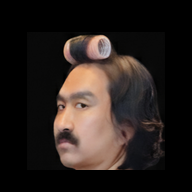
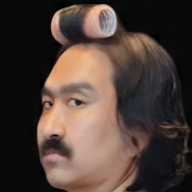
Add files via upload

diff --git a/index.html b/index.html
@@ -46,19 +46,21 @@
   .card-head-right { display: flex; align-items: center; gap: 6px; flex-shrink: 0; }
   .pct-badge { font-size: 12px; font-weight: 600; font-family: 'Space Grotesk', sans-serif; min-width: 30px; text-align: right; }
   .icon-btn { background: transparent; border: none; color: #8b8f98; padding: 4px; display: flex; align-items: center; }
-  .weight-row { display: flex; align-items: center; gap: 8px; margin-bottom: 10px; }
-  .weight-label { font-size: 11px; color: #8b8f98; flex-shrink: 0; }
-  .weight-input { background: #14161a; border: 1px solid #2a2e37; border-radius: 7px; color: #f2542d; font-family: 'Space Grotesk', sans-serif; font-weight: 700; font-size: 13px; padding: 5px 10px; flex: 1; min-width: 0; }
-  .sets-header-row { display: flex; padding: 0 2px 4px; gap: 8px; }
-  .set-col-label { font-size: 10px; color: #5c616c; letter-spacing: 0.5px; }
-  .set-row { display: flex; align-items: center; gap: 8px; margin-bottom: 6px; }
-  .set-num { flex: 0 0 32px; font-size: 12px; color: #8b8f98; font-family: 'Space Grotesk', sans-serif; }
-  .set-tap-btn { flex: 1; position: relative; height: 36px; border-radius: 8px; border: 1px solid #3a3f4a; overflow: hidden; display: flex; align-items: center; justify-content: center; }
-  .set-fill { position: absolute; left: 0; top: 0; bottom: 0; transition: width 0.2s ease; }
-  .set-label { position: relative; font-size: 12.5px; font-weight: 500; color: #f5f5f0; }
-  .target-input { flex: 0 0 56px; background: #14161a; border: 1px solid #2a2e37; border-radius: 8px; color: #f5f5f0; font-size: 13px; text-align: center; padding: 8px 4px; }
-  .set-btn-row { display: flex; gap: 8px; margin-top: 4px; }
-  .small-btn { display: flex; align-items: center; gap: 4px; background: transparent; border: 1px dashed #3a3f4a; color: #8b8f98; font-size: 11.5px; padding: 5px 9px; border-radius: 7px; }
+  .info-row { display: flex; align-items: center; gap: 8px; margin-bottom: 10px; }
+  .info-field { flex: 1; min-width: 0; }
+  .info-label { font-size: 10px; color: #5c616c; letter-spacing: 0.5px; display: block; margin-bottom: 3px; }
+  .weight-input { width: 100%; background: #14161a; border: 1px solid #2a2e37; border-radius: 7px; color: #f2542d; font-family: 'Space Grotesk', sans-serif; font-weight: 700; font-size: 13px; padding: 6px 10px; }
+  .reps-input { width: 100%; background: #14161a; border: 1px solid #2a2e37; border-radius: 7px; color: #f5f5f0; font-family: 'Space Grotesk', sans-serif; font-weight: 700; font-size: 13px; padding: 6px 10px; text-align: center; }
+  .tap-row { display: flex; align-items: center; gap: 14px; }
+  .tap-btn-small { flex: 0 0 56px; width: 56px; height: 56px; border-radius: 14px; border: 1px solid #3a3f4a; background: rgba(242,84,45,0.10); display: flex; align-items: center; justify-content: center; }
+  .set-gauge-col { flex: 1; display: flex; flex-direction: column; align-items: center; gap: 5px; }
+  .set-gauge { width: 60px; height: 60px; border-radius: 50%; display: flex; align-items: center; justify-content: center; transition: background 0.2s ease; }
+  .set-gauge-inner { width: 48px; height: 48px; border-radius: 50%; background: #1e2128; display: flex; flex-direction: column; align-items: center; justify-content: center; }
+  .set-gauge-pct { font-family: 'Space Grotesk', sans-serif; font-size: 14px; font-weight: 700; line-height: 1; }
+  .set-gauge-count { font-size: 9px; color: #8b8f98; margin-top: 1px; }
+  .target-edit-row { display: flex; align-items: center; gap: 4px; }
+  .target-edit-row span { font-size: 9px; color: #5c616c; }
+  .target-sets-input { width: 34px; background: transparent; border: none; border-bottom: 1px dashed #3a3f4a; color: #a8adb8; font-size: 11px; font-weight: 700; font-family: 'Space Grotesk', sans-serif; text-align: center; padding: 1px; }
   .add-exercise-btn { width: 100%; margin-top: 16px; display: flex; align-items: center; justify-content: center; gap: 6px; background: #f2542d; color: #14161a; border: none; border-radius: 10px; padding: 12px; font-weight: 700; font-size: 14px; font-family: 'Space Grotesk', sans-serif; }
   .add-card { margin-top: 16px; display: flex; gap: 8px; align-items: center; }
   .add-input { flex: 1; background: #1e2128; border: 1px solid #2a2e37; border-radius: 9px; color: #f5f5f0; padding: 10px 12px; font-size: 13px; min-width: 0; }
@@ -73,13 +75,14 @@
 <script>
 const SVG = {
   dumbbell: `<svg xmlns="http://www.w3.org/2000/svg" width="16" height="16" viewBox="0 0 24 24" fill="none" stroke="#f2542d" stroke-width="2" stroke-linecap="round" stroke-linejoin="round"><path d="M14.4 14.4 9.6 9.6"/><path d="M18.657 21.485a2 2 0 1 1-2.829-2.828l-1.767 1.768a2 2 0 1 1-2.829-2.829l6.364-6.364a2 2 0 1 1 2.829 2.829l-1.768 1.767a2 2 0 1 1 2.828 2.829z"/><path d="m21.5 21.5-1.4-1.4"/><path d="M3.9 3.9 2.5 2.5"/><path d="M6.404 12.768a2 2 0 1 1-2.829-2.829l1.768-1.767a2 2 0 1 1-2.828-2.829l2.828-2.828a2 2 0 1 1 2.829 2.828l1.767-1.768a2 2 0 1 1 2.829 2.829z"/></svg>`,
-  plus: `<svg xmlns="http://www.w3.org/2000/svg" width="13" height="13" viewBox="0 0 24 24" fill="none" stroke="currentColor" stroke-width="2" stroke-linecap="round" stroke-linejoin="round"><path d="M5 12h14"/><path d="M12 5v14"/></svg>`,
-  minus: `<svg xmlns="http://www.w3.org/2000/svg" width="13" height="13" viewBox="0 0 24 24" fill="none" stroke="currentColor" stroke-width="2" stroke-linecap="round" stroke-linejoin="round"><path d="M5 12h14"/></svg>`,
+  plus: `<svg xmlns="http://www.w3.org/2000/svg" width="16" height="16" viewBox="0 0 24 24" fill="none" stroke="currentColor" stroke-width="2" stroke-linecap="round" stroke-linejoin="round"><path d="M5 12h14"/><path d="M12 5v14"/></svg>`,
   trash: `<svg xmlns="http://www.w3.org/2000/svg" width="14" height="14" viewBox="0 0 24 24" fill="none" stroke="currentColor" stroke-width="2" stroke-linecap="round" stroke-linejoin="round"><path d="M3 6h18"/><path d="M19 6v14a2 2 0 0 1-2 2H7a2 2 0 0 1-2-2V6m3 0V4a2 2 0 0 1 2-2h4a2 2 0 0 1 2 2v2"/></svg>`,
   reset: `<svg xmlns="http://www.w3.org/2000/svg" width="14" height="14" viewBox="0 0 24 24" fill="none" stroke="currentColor" stroke-width="2" stroke-linecap="round" stroke-linejoin="round"><path d="M3 12a9 9 0 1 0 9-9 9.75 9.75 0 0 0-6.74 2.74L3 8"/><path d="M3 3v5h5"/></svg>`,
   pencil: `<svg xmlns="http://www.w3.org/2000/svg" width="13" height="13" viewBox="0 0 24 24" fill="none" stroke="currentColor" stroke-width="2" stroke-linecap="round" stroke-linejoin="round"><path d="M17 3a2.85 2.83 0 1 1 4 4L7.5 20.5 2 22l1.5-5.5Z"/></svg>`,
   check: `<svg xmlns="http://www.w3.org/2000/svg" width="14" height="14" viewBox="0 0 24 24" fill="none" stroke="#2dd4bf" stroke-width="2" stroke-linecap="round" stroke-linejoin="round"><path d="M20 6 9 17l-5-5"/></svg>`,
   x: `<svg xmlns="http://www.w3.org/2000/svg" width="16" height="16" viewBox="0 0 24 24" fill="none" stroke="currentColor" stroke-width="2" stroke-linecap="round" stroke-linejoin="round"><path d="M18 6 6 18"/><path d="m6 6 12 12"/></svg>`,
+  repeat: `<svg xmlns="http://www.w3.org/2000/svg" width="20" height="20" viewBox="0 0 24 24" fill="none" stroke="#f2542d" stroke-width="2" stroke-linecap="round" stroke-linejoin="round"><path d="m17 2 4 4-4 4"/><path d="M3 11v-1a4 4 0 0 1 4-4h14"/><path d="m7 22-4-4 4-4"/><path d="M21 13v1a4 4 0 0 1-4 4H3"/></svg>`,
+  repeatDone: `<svg xmlns="http://www.w3.org/2000/svg" width="20" height="20" viewBox="0 0 24 24" fill="none" stroke="#2dd4bf" stroke-width="2" stroke-linecap="round" stroke-linejoin="round"><path d="m17 2 4 4-4 4"/><path d="M3 11v-1a4 4 0 0 1 4-4h14"/><path d="m7 22-4-4 4-4"/><path d="M21 13v1a4 4 0 0 1-4 4H3"/></svg>`,
 };
 
 const uid = () => Math.random().toString(36).slice(2, 9);
@@ -96,7 +99,7 @@ const todayLabel = () => {
 };
 const todayDayName = () => dayLabels[new Date().getDay()];
 
-// 요일별 기본 프로그램 (사용자 제공 스케줄)
+// 요일별 기본 프로그램: [운동명, 중량, 목표 횟수(1세트당), 목표 세트 수]
 const RAW_TEMPLATES = {
   "월": [
     ["벤치프레스", "60kg", 8, 5],
@@ -136,19 +139,20 @@ const RAW_TEMPLATES = {
 
 function buildTemplate(dayName) {
   const rows = RAW_TEMPLATES[dayName] || [];
-  return rows.map(([name, weight, reps, setCount]) => ({
+  return rows.map(([name, weight, reps, targetSets]) => ({
     id: uid(),
     name,
     weight,
-    sets: Array.from({ length: setCount }, () => ({ target: reps, done: 0 })),
+    reps,
+    targetSets,
+    doneSets: 0,
   }));
 }
 
-function pct(sets) {
-  const target = sets.reduce((a, s) => a + Number(s.target || 0), 0);
-  const done = sets.reduce((a, s) => a + Math.min(s.done, s.target || 0), 0);
+function pct(ex) {
+  const target = Number(ex.targetSets || 0);
   if (target === 0) return 0;
-  return Math.round((done / target) * 100);
+  return Math.round((Math.min(ex.doneSets, target) / target) * 100);
 }
 
 let exercises = [];
@@ -158,7 +162,22 @@ let newName = "";
 let editingId = null;
 let editValue = "";
 
+function purgeOldLogs() {
+  try {
+    const keep = todayKey();
+    const toRemove = [];
+    for (let i = 0; i < localStorage.length; i++) {
+      const k = localStorage.key(i);
+      if (k && k.startsWith("log:") && k !== keep) toRemove.push(k);
+    }
+    toRemove.forEach((k) => localStorage.removeItem(k));
+  } catch (e) {
+    // 삭제 실패는 무시하고 계속 진행
+  }
+}
+
 function load() {
+  purgeOldLogs();
   try {
     const raw = localStorage.getItem(todayKey());
     if (raw) { exercises = JSON.parse(raw); return; }
@@ -179,31 +198,24 @@ function persist() {
 
 function update() { persist(); render(); }
 
-function tapSet(exId, setIdx) {
+function tapExercise(exId) {
   const ex = exercises.find((e) => e.id === exId);
-  const s = ex.sets[setIdx];
-  const cap = s.target > 0 ? s.target : 999;
-  s.done = s.done >= cap ? 0 : s.done + 1;
+  const cap = ex.targetSets > 0 ? ex.targetSets : 999;
+  ex.doneSets = ex.doneSets >= cap ? 0 : ex.doneSets + 1;
   update();
 }
-function setTarget(exId, setIdx, val) {
+function setTargetSets(exId, val) {
+  const v = Math.max(0, Math.min(30, Number(val) || 0));
+  exercises.find((e) => e.id === exId).targetSets = v;
+  update();
+}
+function setReps(exId, val) {
   const v = Math.max(0, Math.min(99, Number(val) || 0));
-  exercises.find((e) => e.id === exId).sets[setIdx].target = v;
+  exercises.find((e) => e.id === exId).reps = v;
   update();
 }
 function setWeight(exId, val) {
   exercises.find((e) => e.id === exId).weight = val;
-  update();
-}
-function addSet(exId) {
-  const ex = exercises.find((e) => e.id === exId);
-  const last = ex.sets[ex.sets.length - 1];
-  ex.sets.push({ target: last ? last.target : 8, done: 0 });
-  update();
-}
-function removeSet(exId) {
-  const ex = exercises.find((e) => e.id === exId);
-  ex.sets.pop();
   update();
 }
 function removeExercise(exId) {
@@ -211,7 +223,7 @@ function removeExercise(exId) {
   update();
 }
 function resetExercise(exId) {
-  exercises.find((e) => e.id === exId).sets.forEach((s) => (s.done = 0));
+  exercises.find((e) => e.id === exId).doneSets = 0;
   update();
 }
 function startEdit(exId) {
@@ -229,7 +241,7 @@ function confirmEdit(exId) {
 function addExercise() {
   const name = newName.trim();
   if (!name) return;
-  exercises.push({ id: uid(), name, weight: "", sets: [{ target: 8, done: 0 }] });
+  exercises.push({ id: uid(), name, weight: "", reps: 10, targetSets: 3, doneSets: 0 });
   newName = "";
   addingExercise = false;
   update();
@@ -237,7 +249,7 @@ function addExercise() {
 
 function render() {
   const app = document.getElementById("app");
-  const totalPct = exercises.length ? Math.round(exercises.reduce((a, ex) => a + pct(ex.sets), 0) / exercises.length) : 0;
+  const totalPct = exercises.length ? Math.round(exercises.reduce((a, ex) => a + pct(ex), 0) / exercises.length) : 0;
 
   let html = `
     <div class="header">
@@ -260,7 +272,10 @@ function render() {
   `;
 
   exercises.forEach((ex) => {
-    const p = pct(ex.sets);
+    const p = pct(ex);
+    const reached = ex.targetSets > 0 && ex.doneSets >= ex.targetSets;
+    const fillW = ex.targetSets > 0 ? Math.min(100, (ex.doneSets / ex.targetSets) * 100) : 0;
+
     html += `<div class="card">
       <div class="card-head">
         <div class="card-title-wrap">
@@ -280,34 +295,36 @@ function render() {
             `}
         </div>
       </div>
-      <div class="weight-row">
-        <span class="weight-label">중량</span>
-        <input class="weight-input" data-action="setWeight" data-id="${ex.id}" value="${escapeHtml(ex.weight ?? "")}" placeholder="예: 60kg / 맨몸" />
+
+      <div class="info-row">
+        <div class="info-field">
+          <span class="info-label">중량</span>
+          <input class="weight-input" data-action="setWeight" data-id="${ex.id}" value="${escapeHtml(ex.weight ?? "")}" placeholder="예: 60kg / 맨몸" />
+        </div>
+        <div class="info-field" style="flex: 0 0 78px;">
+          <span class="info-label">목표 횟수</span>
+          <input class="reps-input" type="number" data-action="setReps" data-id="${ex.id}" value="${ex.reps}" />
+        </div>
       </div>
-      <div class="sets-header-row">
-        <span class="set-col-label" style="flex:0 0 32px">세트</span>
-        <span class="set-col-label" style="flex:1">완료 (탭해서 기록)</span>
-        <span class="set-col-label" style="flex:0 0 56px;text-align:center">목표</span>
-      </div>`;
 
-    ex.sets.forEach((s, i) => {
-      const cap = s.target || 0;
-      const reached = cap > 0 && s.done >= cap;
-      const fillW = cap > 0 ? Math.min(100, (s.done / cap) * 100) : 0;
-      html += `<div class="set-row">
-        <span class="set-num">${i + 1}</span>
-        <button class="set-tap-btn" data-action="tapSet" data-id="${ex.id}" data-idx="${i}"
+      <div class="tap-row">
+        <button class="tap-btn-small" data-action="tapExercise" data-id="${ex.id}"
           style="background:${reached ? "rgba(45,212,191,0.14)" : "rgba(242,84,45,0.10)"}; border-color:${reached ? "#2dd4bf" : "#3a3f4a"}">
-          <span class="set-fill" style="width:${fillW}%; background:${reached ? "#2dd4bf" : "#f2542d"}"></span>
-          <span class="set-label">${s.done === 0 ? "탭하여 시작" : `${s.done}회 완료`}</span>
+          ${reached ? SVG.repeatDone : SVG.repeat}
         </button>
-        <input class="target-input" type="number" data-action="setTarget" data-id="${ex.id}" data-idx="${i}" value="${s.target}" />
-      </div>`;
-    });
-
-    html += `<div class="set-btn-row">
-        <button class="small-btn" data-action="addSet" data-id="${ex.id}">${SVG.plus} 세트 추가</button>
-        ${ex.sets.length > 1 ? `<button class="small-btn" data-action="removeSet" data-id="${ex.id}">${SVG.minus} 세트 제거</button>` : ""}
+        <div class="set-gauge-col">
+          <div class="set-gauge" style="background: conic-gradient(${reached ? "#2dd4bf" : "#f2542d"} ${p * 3.6}deg, #2a2e37 0deg)">
+            <div class="set-gauge-inner">
+              <span class="set-gauge-pct" style="color:${reached ? "#2dd4bf" : "#f5f5f0"}">${p}%</span>
+              <span class="set-gauge-count">${ex.doneSets}/${ex.targetSets}세트</span>
+            </div>
+          </div>
+          <div class="target-edit-row">
+            <span>목표</span>
+            <input class="target-sets-input" type="number" data-action="setTargetSets" data-id="${ex.id}" value="${ex.targetSets}" />
+            <span>세트</span>
+          </div>
+        </div>
       </div>
     </div>`;
   });
@@ -324,7 +341,7 @@ function render() {
     html += `<button class="add-exercise-btn" data-action="startAdd">${SVG.plus} 운동 추가</button>`;
   }
 
-  html += `<p class="foot-note">요일에 맞는 기본 프로그램이 자동으로 표시되고, 기록은 이 기기에 오늘 날짜 기준으로 저장됩니다.</p>`;
+  html += `<p class="foot-note">요일에 맞는 기본 프로그램이 자동으로 표시되고, 기록은 이 기기에 오늘 날짜 기준으로만 저장됩니다.</p>`;
 
   app.innerHTML = html;
 
@@ -358,11 +375,8 @@ document.addEventListener("click", (e) => {
   if (!el) return;
   const action = el.dataset.action;
   const id = el.dataset.id;
-  const idx = el.dataset.idx !== undefined ? Number(el.dataset.idx) : undefined;
   switch (action) {
-    case "tapSet": tapSet(id, idx); break;
-    case "addSet": addSet(id); break;
-    case "removeSet": removeSet(id); break;
+    case "tapExercise": tapExercise(id); break;
     case "removeExercise": removeExercise(id); break;
     case "resetExercise": resetExercise(id); break;
     case "startEdit": startEdit(id); break;
@@ -374,8 +388,11 @@ document.addEventListener("click", (e) => {
 });
 
 document.addEventListener("change", (e) => {
-  if (e.target.dataset.action === "setTarget") {
-    setTarget(e.target.dataset.id, Number(e.target.dataset.idx), e.target.value);
+  if (e.target.dataset.action === "setTargetSets") {
+    setTargetSets(e.target.dataset.id, e.target.value);
+  }
+  if (e.target.dataset.action === "setReps") {
+    setReps(e.target.dataset.id, e.target.value);
   }
   if (e.target.dataset.action === "setWeight") {
     setWeight(e.target.dataset.id, e.target.value);
